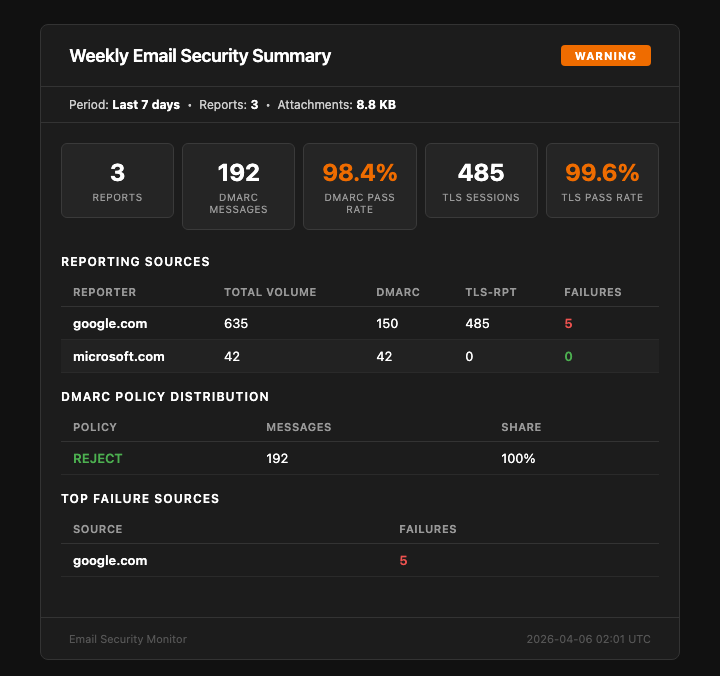
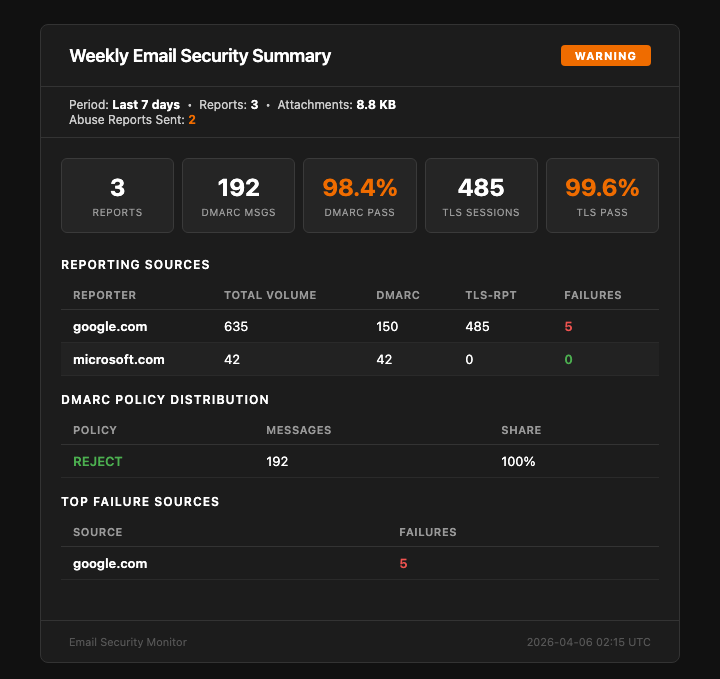
Fix screenshot layout: trim DMARC table columns, shorten stat card labels
- Drop SPF Domain and Envelope From columns from DMARC alert (overflow)
- Abbreviate "Disposition" to "Disp" in DMARC table header
- Shorten weekly summary card labels for uniform sizing
- Add abuse_reports_sent=2 to screenshot sample data
- Regenerate all screenshots

diff --git a/templates/dmarc_alert.html b/templates/dmarc_alert.html
@@ -28,7 +28,7 @@ SPF Alignment: <strong style='color:#ffffff'>{{ "Strict" if report.aspf == "s" e
 {% endif %}
 <table width="100%" cellpadding="0" cellspacing="0" style="border-collapse:collapse">
   <tr>
-    {% for h in ["Source IP", "Count", "Disposition", "DKIM", "SPF", "DKIM Domain", "SPF Domain", "From", "Envelope From"] %}
+    {% for h in ["Source IP", "Count", "Disp", "DKIM", "SPF", "DKIM Domain", "From"] %}
     {{ th(h) }}
     {% endfor %}
   </tr>
@@ -40,9 +40,7 @@ SPF Alignment: <strong style='color:#ffffff'>{{ "Strict" if report.aspf == "s" e
     {{ td(status_badge(r.dkim_result.value)) }}
     {{ td(status_badge(r.spf_result.value)) }}
     {{ td(mono(r.dkim_domain) if r.dkim_domain else subtle("—")) }}
-    {{ td(mono(r.spf_domain) if r.spf_domain else subtle("—")) }}
     {{ td(r.header_from) }}
-    {{ td(subtle(r.envelope_from or "—")) }}
   </tr>
   {% endfor %}
 </table>

diff --git a/tests/test_alert.py b/tests/test_alert.py
@@ -258,11 +258,10 @@ class TestDmarcHtmlContent:
         result = alert.build_dmarc_alert(_dmarc_report(records, pct=100))
         assert "Sampling" not in result.body_html
 
-    def test_contains_dkim_spf_domain_columns(self):
+    def test_contains_dkim_domain_column(self):
         records = [_dmarc_record(count=10)]
         result = alert.build_dmarc_alert(_dmarc_report(records))
         assert "DKIM Domain" in result.body_html
-        assert "SPF Domain" in result.body_html
 
     def test_partial_failures_shown(self):
         records = [
@@ -622,7 +621,7 @@ class TestWeeklySummary:
         assert "Reporting Sources" in result.body_html
         assert "google.com" in result.body_html
         assert "yahoo.com" in result.body_html
-        assert "DMARC Messages" in result.body_html
+        assert "DMARC Msgs" in result.body_html
         assert "TLS Sessions" in result.body_html
 
     def test_html_contains_policy_distribution(self):

diff --git a/alert.py b/alert.py
@@ -440,10 +440,10 @@ def build_weekly_summary(
         severity,
         [
             _card(str(total_reports), "Reports"),
-            _card(str(dmarc_messages), "DMARC Messages"),
-            _card(dmarc_pass_rate, "DMARC Pass Rate", "#4caf50" if dmarc_fail == 0 else "#ef6c00"),
+            _card(str(dmarc_messages), "DMARC Msgs"),
+            _card(dmarc_pass_rate, "DMARC Pass", "#4caf50" if dmarc_fail == 0 else "#ef6c00"),
             _card(str(tls_total), "TLS Sessions"),
-            _card(tls_pass_rate, "TLS Pass Rate", "#4caf50" if tls_fail == 0 else "#ef6c00"),
+            _card(tls_pass_rate, "TLS Pass", "#4caf50" if tls_fail == 0 else "#ef6c00"),
         ],
     )
     ctx.update(

diff --git a/scripts/generate_screenshots.py b/scripts/generate_screenshots.py
@@ -184,7 +184,7 @@ def _build_weekly_html() -> str:
             attachment_size_bytes=2000,
         ),
     ]
-    return alert.build_weekly_summary(records, days=7).body_html
+    return alert.build_weekly_summary(records, days=7, abuse_reports_sent=2).body_html
 
 
 def main() -> None:
